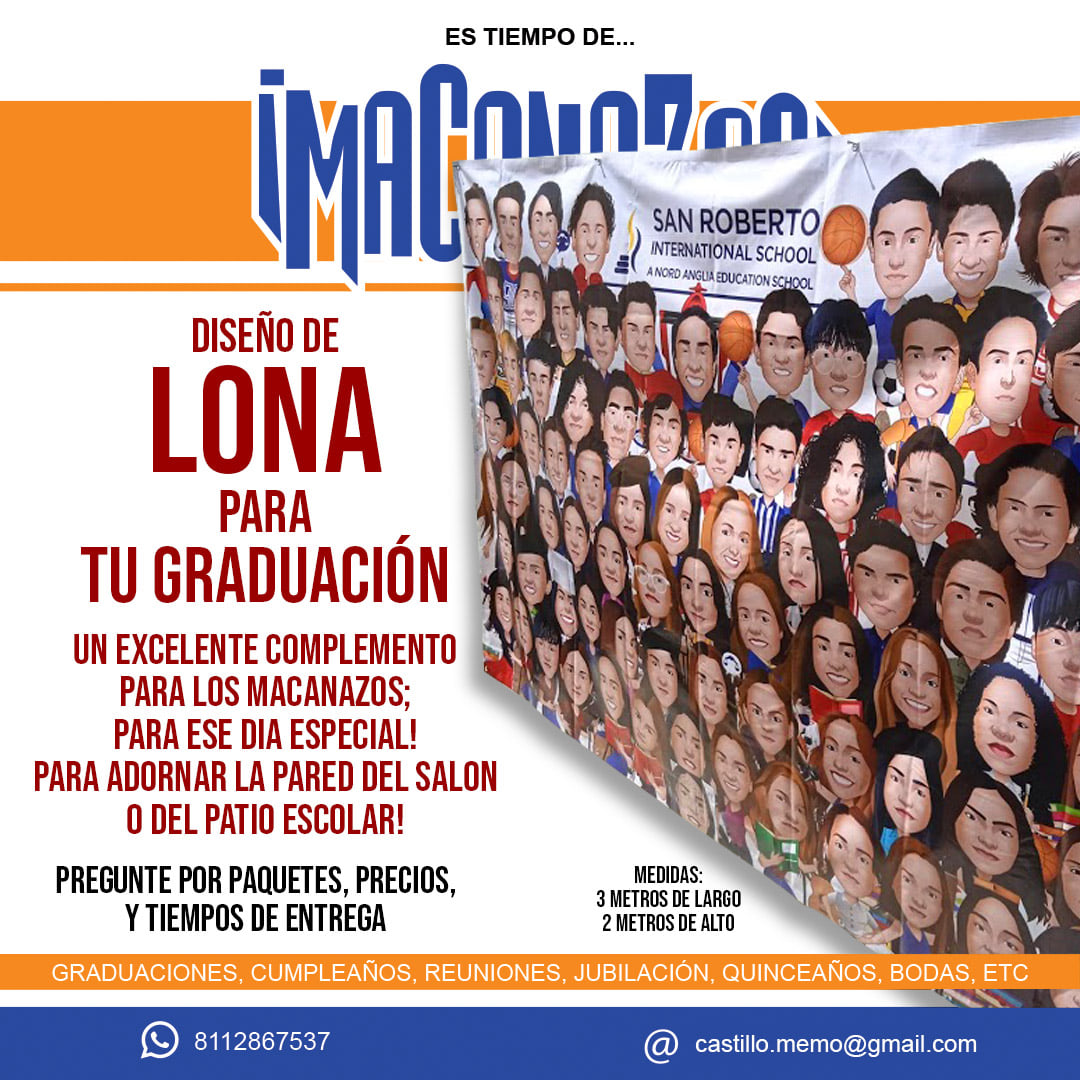
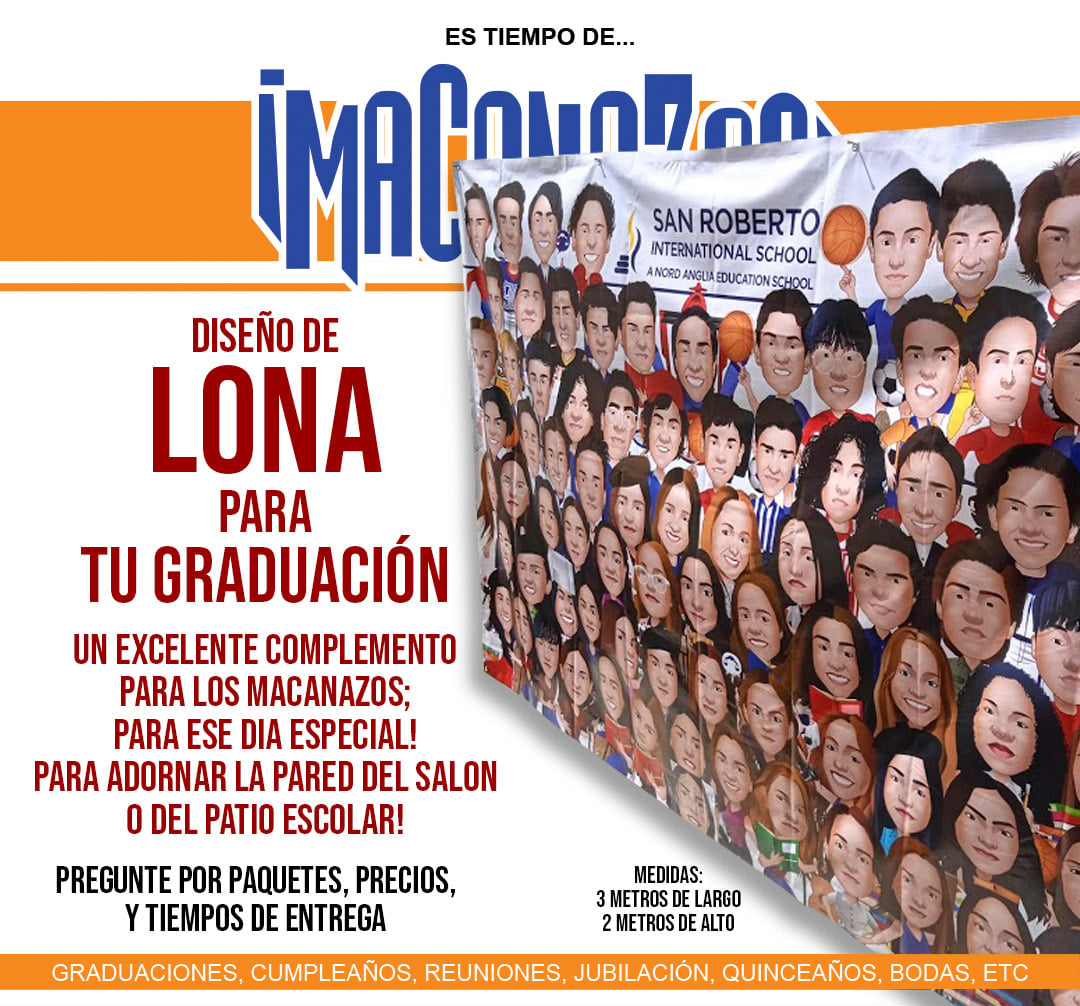
primera impresion cms

diff --git a/public/admin/index.html b/public/admin/index.html
@@ -1,0 +1,33 @@
+<!DOCTYPE html>
+<html>
+  <head>
+    <meta charset="utf-8" />
+    <meta name="viewport" content="width=device-width, initial-scale=1.0" />
+    <title>Content Manager</title>
+    <script src="https://identity.netlify.com/v1/netlify-identity-widget.js"></script>
+  </head>
+  <body>
+    <!-- Include the script that builds the page and powers Netlify CMS -->
+    <script src="https://unpkg.com/netlify-cms@^2.0.0/dist/netlify-cms.js"></script>
+    <script>
+      CMS.registerPreviewStyle(
+        "https://fonts.googleapis.com/css2?family=Ubuntu:wght@300;400&display=swap"
+      );
+      CMS.registerPreviewStyle("/styles/content.module.css");
+      var PostPreview = createClass({
+        render: function () {
+          var entry = this.props.entry;
+          var date = entry.getIn(["data", "date"]);
+          return h(
+            "div",
+            { className: "content" },
+            h("h1", {}, entry.getIn(["data", "title"])),
+            h("time", {}, entry.getIn(["data", "date"])),
+            h("div", {}, this.props.widgetFor("body"))
+          );
+        },
+      });
+      CMS.registerPreviewTemplate("posts", PostPreview);
+    </script>
+  </body>
+</html>

diff --git a/app/page.tsx b/app/page.tsx
@@ -101,7 +101,7 @@ export default function Home() {
             src={images[currentImageIndex]}
             alt="Banner de Productos"
             width={540}
-            height={540}
+            height={503}
             style={{
               maxWidth: '80%',
               width: '80%',
